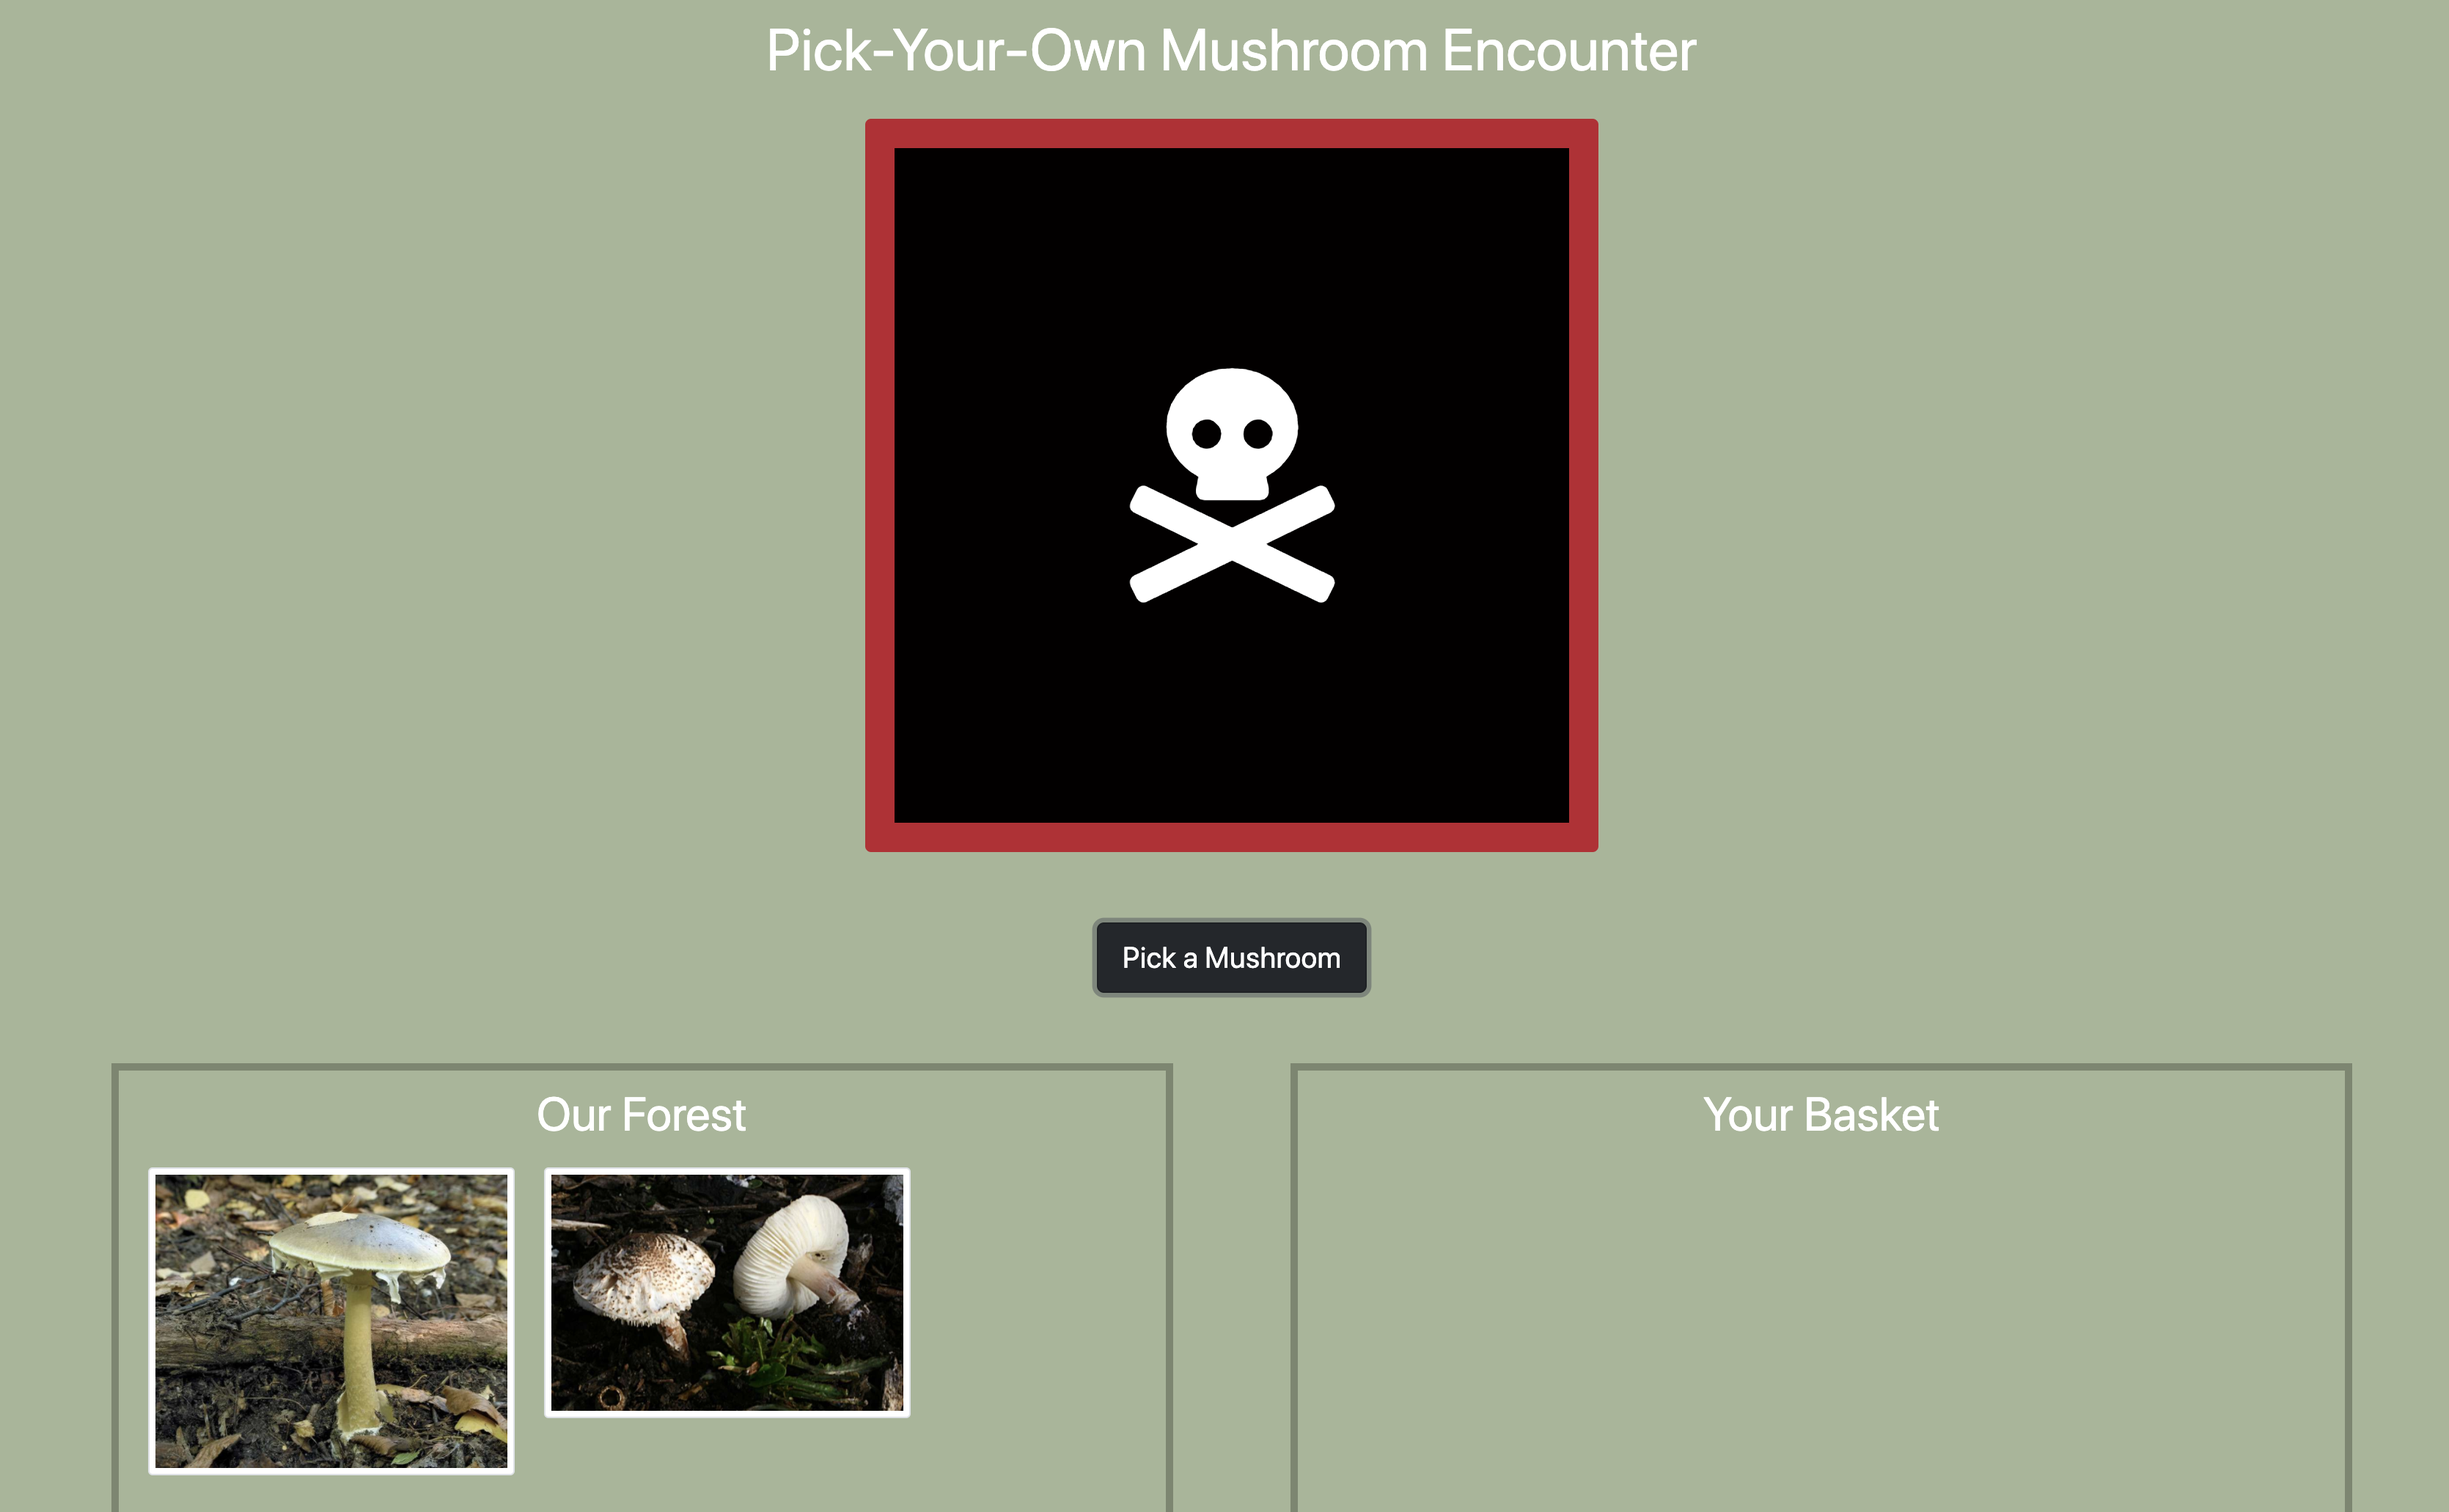
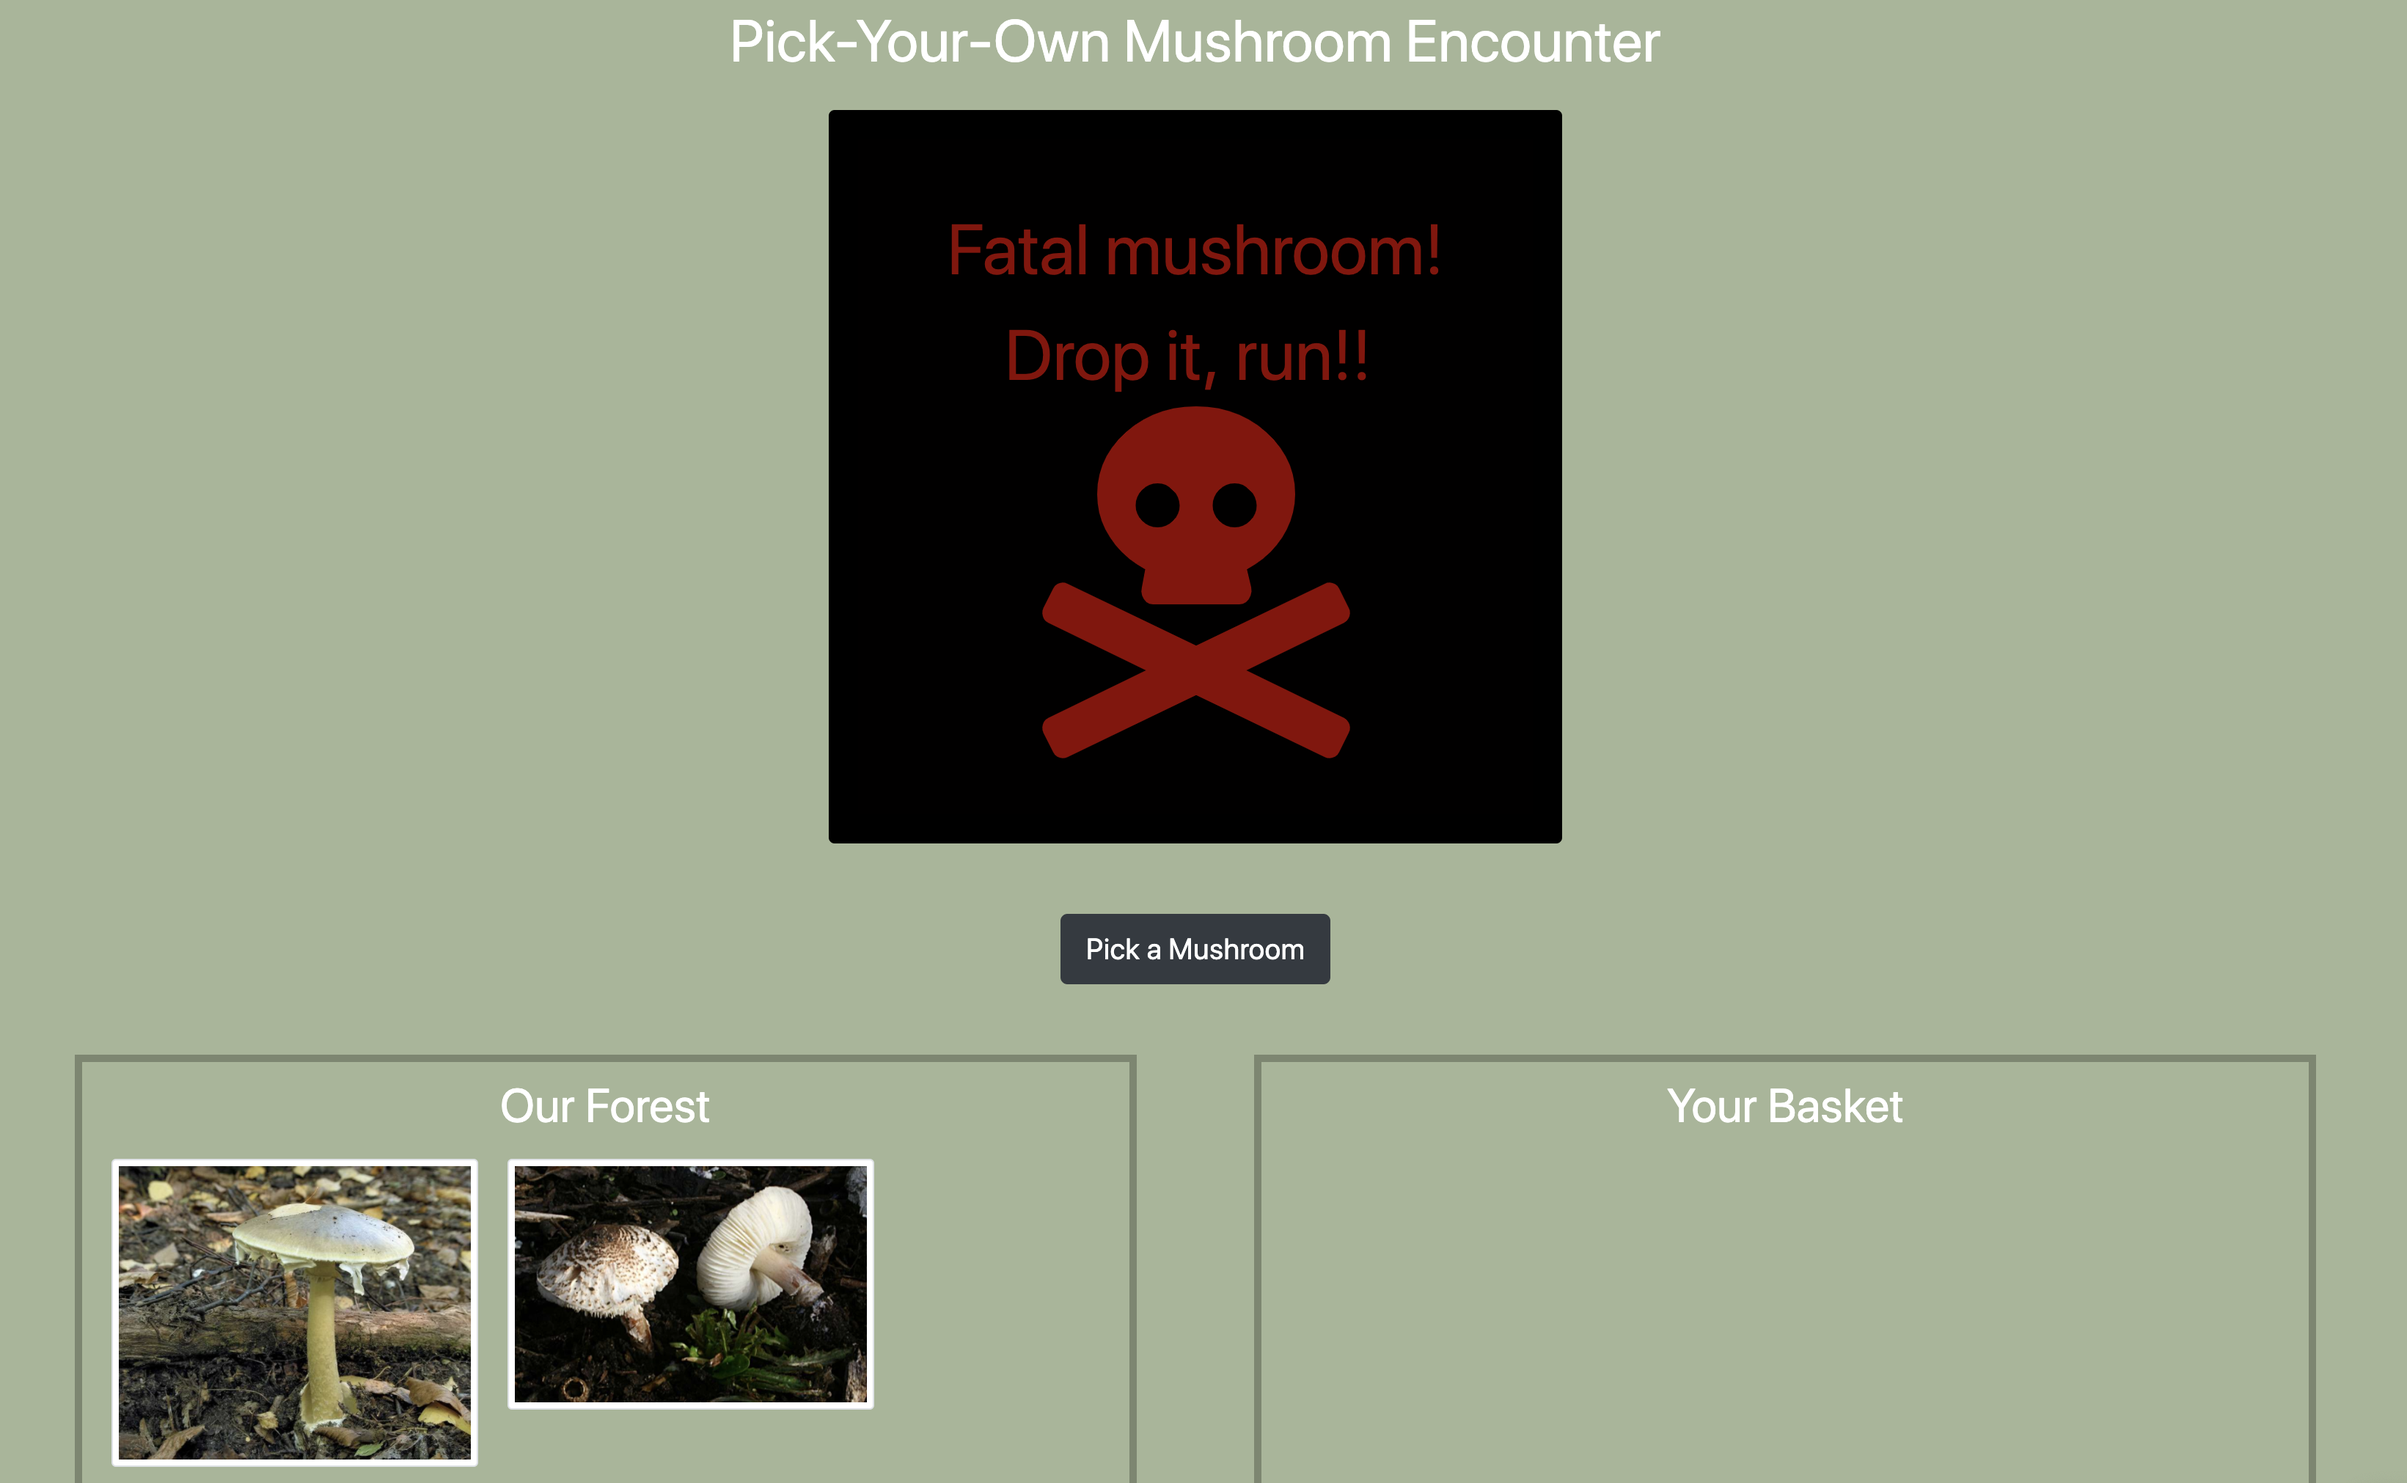
added readme

Changed region(s): [[0.0311, 0.0, 0.9634, 1.0]]

diff --git a/src/helpers/data/mushroomData.js b/src/helpers/data/mushroomData.js
@@ -203,6 +203,8 @@ let mushrooms = [
 
 let basket = [];
 
+let gotAFullBasket = false;
+
 let lostEverything = false;
 
 const lostEverythingEvent = () => {
@@ -240,13 +242,13 @@ const removeTwoMushrooms = () => {
 };
 
 const emptyBasket = () => {
-  alert('Deadly mushroom alert! You just lost all your other yummy mushrooms!')
+  // alert('Deadly mushroom alert! You just lost all your other yummy mushrooms!')
   basket = getBasket();
   basket = [];
 };
 
 const fillBasketMagically = () => {
-  alert('You hit the jackpot!');
+  // alert('You hit the jackpot!');
   for (let i = 0; i < mushrooms.length; i += 1) {
     if (mushrooms[i].isDeadly === false && mushrooms[i].isPoisonous === false && mushrooms[i].isMagic === false) {
       checkForDuplicates(mushrooms[i]) ? (console.error('found a duplicate!', mushrooms[i].name)) : (addNewMushroom(mushrooms[i]));
@@ -263,7 +265,7 @@ const checkForDuplicates = (selectedMushroom) => {
     if (basket[i].id === selectedMushroom.id) {
       const currentDuplicate = basket[i];
       currentDuplicate.count += 1;
-      alert(`You have more of the same: You now have ${basket[i].count} of the ${basket[i].name} type!`);
+      // alert(`You have more of the same: You now have ${basket[i].count} of the ${basket[i].name} type!`);
       return true;
     }
   }
@@ -275,22 +277,25 @@ const addNewMushroom = (selectedMushroom) => {
   const newMushroom = { ...selectedMushroom };
   newMushroom.count = 1;
   basket.push(newMushroom);
+  console.error('new  mush', newMushroom);
 };
 
 const checkForFullBasket = () => {
   basket = getBasket();
   const regularMushrooms = getAllRegularMushrooms();
-  let gotAFullBasket = false;
   // ANCA NOTES: The next function below - basketCheck - loops over all the regular mushrooms and picks each item and then runs the isIncluded function which checks to see if the selected mushroom item is included in the basket. The .includes() method returns a true or false value, which is then returned bu the function. Then, the basketCheck function creates a new array (the .map method does that) with the results of each check - so an array of true and false results.
   const basketCheck = regularMushrooms.map((item) => {
     const isIncluded = basket.includes((item));
+    console.error('is included for sel mushroom', isIncluded);
     return isIncluded;
   });
   // ANCA NOTES: The next function below - isWinner - checks to see if every item in the array built via the .map() method in the basketCheck function is true. If .every() method returns true (so: if(isWinner)), then we run the console log.
   const isWinner = basketCheck.every((x) => x === true);
+  console.log('is winner function result', isWinner);
   if (isWinner) {
     // ANCA NOTES: This is where I reset the gotAFullBasket property I defined at the beginning og this function and whose value I will pass into the fullBasket object in the state in App.js:
     gotAFullBasket = true;
+    console.log('full bask value', gotAFullBasket);
   }
   return gotAFullBasket;
 };
@@ -298,6 +303,7 @@ const checkForFullBasket = () => {
 const pickAMushroom = () => {
   const randomNum = Math.floor(Math.random() * mushrooms.length);
   const selectedMushroom = mushrooms[randomNum];
+  console.log('mushroom id', selectedMushroom.id);
   if (selectedMushroom.isPoisonous === true) {
     removeTwoMushrooms();
     lostEverything = false;
@@ -310,12 +316,9 @@ const pickAMushroom = () => {
   } else {
     // Previously - I called the basket.push(selectedMushroom) funciton here - but once I added the feature to check for duplicates, the line below now does that - either updates the count if that type of mushroom already exists in the basket or the addNewMushroom function pushes a new mushroom into the basket.
     if (checkForDuplicates(selectedMushroom) === false) {
-      console.log('check dupes false');
       addNewMushroom(selectedMushroom);
-      console.log('added new mushroom');
     }
     lostEverything = false;
-    console.log('returning lostEverything as false');
   }
   checkForFullBasket();
 };

diff --git a/src/App/App.js b/src/App/App.js
@@ -44,7 +44,7 @@ class App extends React.Component {
       <div className="App">
         {
           this.state.fullBasket ? (
-            <h1 className="encounter-title p-5 mt-5 funAnimation">CONGRATULATIONS!</h1>
+            <h1 className="encounter-title p-5 mt-5 funAnimation">CONGRATULATIONS!<br />You found the magic mushroom!<br /><i class="fas fa-magic"></i> </h1>
           ) : (
             <h1 className="encounter-title p-3">Pick-Your-Own Mushroom Encounter</h1>
           )
@@ -52,7 +52,7 @@ class App extends React.Component {
         <div>
         {
           this.state.lostAllMushrooms ? (
-            <button className="btn btn-danger skull skullAnimation"><i className="fas fa-skull-crossbones"></i></button>
+            <button className="btn btn-danger skull skullAnimation">Fatal mushroom!<br />Drop it, run!! <br /><i className="fas fa-skull-crossbones skullIcon"></i></button>
           ) : (
             <h6 className="p-3">Could be fun, could be fatal...</h6>
           )

diff --git a/src/styles/index.scss b/src/styles/index.scss
@@ -50,11 +50,11 @@ h1, h2 {
     border-radius: 100%;
   }
   50% {
-    background-color: orange;
+    background-color: gold;
   }
   100% {
     transform: scale(1.5);
-    background-color: yellow;
+    background-color: darkorange;
   }
 }
 
@@ -64,8 +64,12 @@ h1, h2 {
   color: darkred;
   width: 500px;
   height: 500px;
-  font-size: 10em;
+  font-size: 3em;
   border: solid 20px black;
+}
+
+.skullIcon {
+  font-size: 5em;
 }
 
 .skullAnimation {

diff --git a/README.md b/README.md
@@ -1,7 +1,7 @@
 # Pick-Your-Own Mushroom Encounter
 
 ## Description
-This was our first venture into React. Our Mushroom-Picker project was intended to give us the opportunity to familiarize ourselves with using state and props in React and understand how data gets transferred across files. 
+This was our first venture into React. Our Mushroom-Picker project was intended to give us the opportunity to familiarize ourselves with using state and props in React, understand how data gets transferred across files, and learn how to manipulate the display in the component files. 
 
 ## Background
 Project instructions can be found [here](https://github.com/nss-nightclass-projects/exercise-vault/blob/master/REACT_mushroom_picker.md).
@@ -18,6 +18,9 @@ Bootstrap, CSS, ES6 Modules, Github (for version control), HTML, JavaScript (van
 ###### Home Page (with Full Basket)
 ![Home Page with Full Basket](./mushroom_images/home_full.png)
 
+###### Mushroom Count for Mushrooms in Basket
+![Poisonous Mushroom](./mushroom_images/same_mushroom.png)
+
 ###### Alert when User Picks a Magic Mushroom
 ![Magic Mushroom](./mushroom_images/magic_reward.png)
 
@@ -28,15 +31,14 @@ Bootstrap, CSS, ES6 Modules, Github (for version control), HTML, JavaScript (van
 ![Poisonous Mushroom](./mushroom_images/poisonous.png)
 
 ## Features
-1. User can see all mushrooms available in the forest.
+1. User can see all the mushrooms available in the forest.
 1. User can pick a mushroom, which adds a random mushroom to the user's basket. 
 1. User can see the number of mushrooms for each type currently in their basket. 
 1. If the user picks a poisonous mushroom, the first two mushrooms in the basket get removed. 
-1. If the user picks a deadly mushroom, then all the mushrooms get removed
-As a user, if I pick a magic mushroom (isMagic === true) then I should get one of each of the non magic, non poisonous, and non deadly mushrooms added to my basket
-As a user, if my basket has one (or more) of each type of mushroom that is non poisonous or non deadly then I have collected them all and I should WIN.
-As a user, if I WIN, something cool should happen.
-As a user, if I pick a poisonous or deadly mushroom, something dark and scarry should happen
+1. If the user picks the deadly mushroom, then all the mushrooms in the basket get removed.
+1. If a user picks a magic mushroom, then their basket gets filled instantaneously with one of each of the regular mushrooms (non-magic, non-poisonous, and non-deadly). 
+1. When the user's basket has at least one of each of the regular mushrooms (non-magic, non-poisonous, and non-deadly), then they get a fun Congratulations! flashing animation. 
+1. When the user picks the deadly mushroom and loses all the mushrooms currently in their basket, then they get a dreaded skull-and-bones animation. 
 
 ## How to Run
 1. Clone down this repo.
